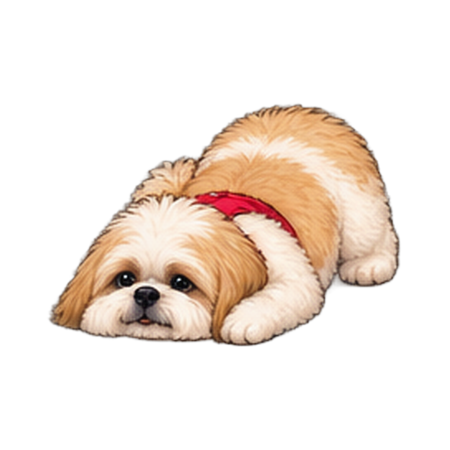
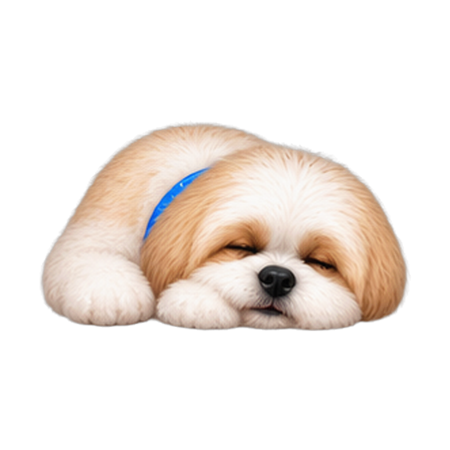
Atualiza todas as mascotes de Nina e Bob (hora-remedio, parabens, dormindo, boasvindas, GIF de lambida) com as novas ilustracoes enviadas, extraidas com cuidado (isolando maior componente por imagem, dividindo fileiras de rostos coladas por vale de densidade). Adiciona nova mascote 'standby': quando

diff --git a/web/src/screens/HomeScreen.jsx b/web/src/screens/HomeScreen.jsx
@@ -197,6 +197,22 @@ export default function HomeScreen() {
   const diaEhFuturo = diaSelecionado > HOJE;
   const todasTomadas = dosesDoDia.length > 0 && dosesDoDia.every((d) => d.tomado);
 
+  // se a próxima dose pendente estiver a mais de 1h de distância, mostra a
+  // mascote "standby" em vez da "hora do remédio" (que fica reservada pra
+  // quando realmente está perto/na hora)
+  let proximaDoseEmBreve = true;
+  if (diaSelecionado === HOJE && dosesPendentes.length > 0) {
+    const agora = new Date();
+    const minutosAte = (horario) => {
+      const [h, m] = horario.split(':').map(Number);
+      const alvo = new Date();
+      alvo.setHours(h, m, 0, 0);
+      return (alvo - agora) / 60000;
+    };
+    const menorDistancia = Math.min(...dosesPendentes.map((d) => minutosAte(d.horario)));
+    proximaDoseEmBreve = menorDistancia <= 60;
+  }
+
   async function marcarComoTomado(item) {
     if (diaEhFuturo) return;
     const chave = `${item.remedio.id}-${item.horario}`;
@@ -405,7 +421,13 @@ export default function HomeScreen() {
         {dosesDoDia.length > 0 && (
           <div style={estilos.cabecalhoLista}>
             <img
-              src={todasTomadas ? `/${pastaMascote}/mascote-parabens.png` : `/${pastaMascote}/mascote-hora-remedio.png`}
+              src={
+                todasTomadas
+                  ? `/${pastaMascote}/mascote-parabens.png`
+                  : proximaDoseEmBreve
+                  ? `/${pastaMascote}/mascote-hora-remedio.png`
+                  : `/${pastaMascote}/mascote-standby.png`
+              }
               alt=""
               style={estilos.mascoteCabecalho}
             />

diff --git a/web/src/utils/versao.js b/web/src/utils/versao.js
@@ -1,4 +1,4 @@
 // Atualizo esse número toda vez que envio uma mudança —
 // serve pra você confirmar se o app realmente atualizou no celular.
-export const VERSAO = '1.31.1';
-export const VERSAO_DESCRICAO = 'Adiciona opcao de escolher a pasta onde salvar o backup (alem do download padrao)';
+export const VERSAO = '1.32.0';
+export const VERSAO_DESCRICAO = 'Atualiza mascotes (Nina e Bob) com as novas ilustracoes + adiciona modo standby quando proxima dose esta a mais de 1h';
